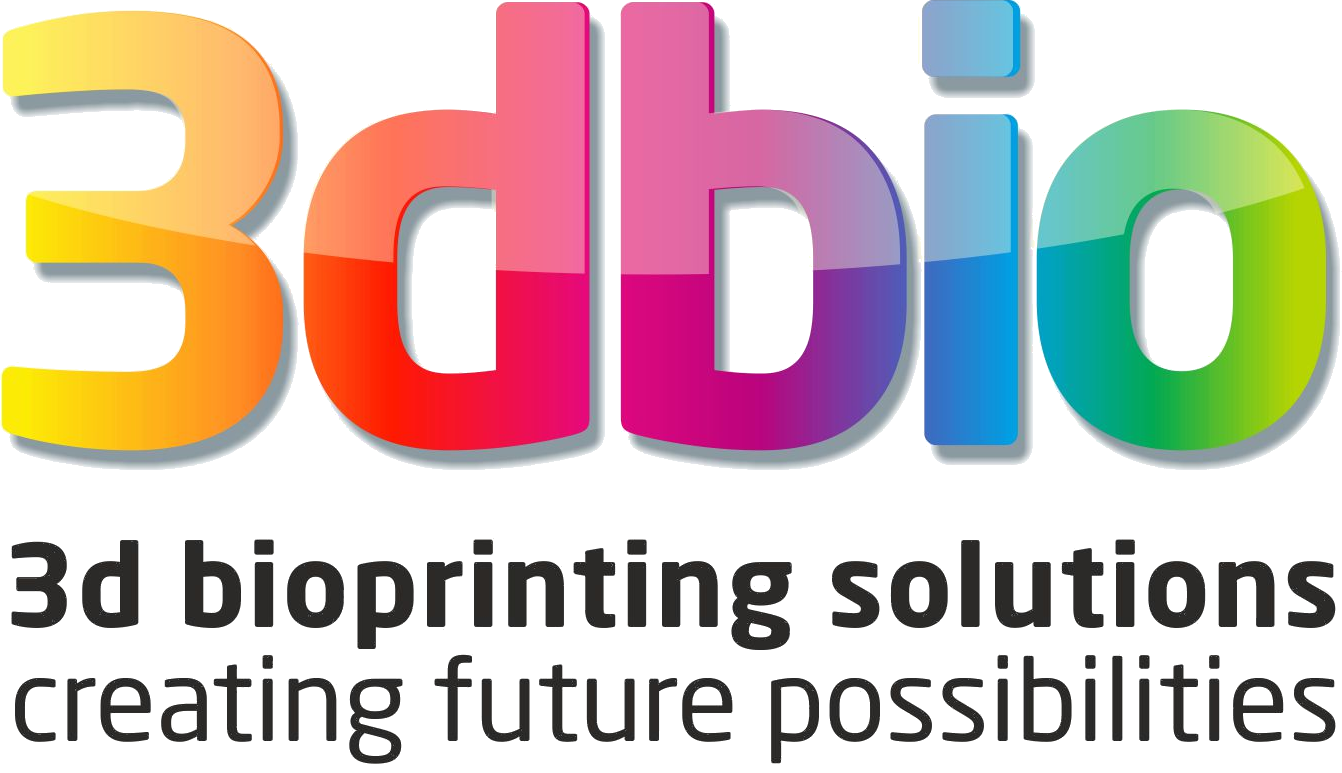
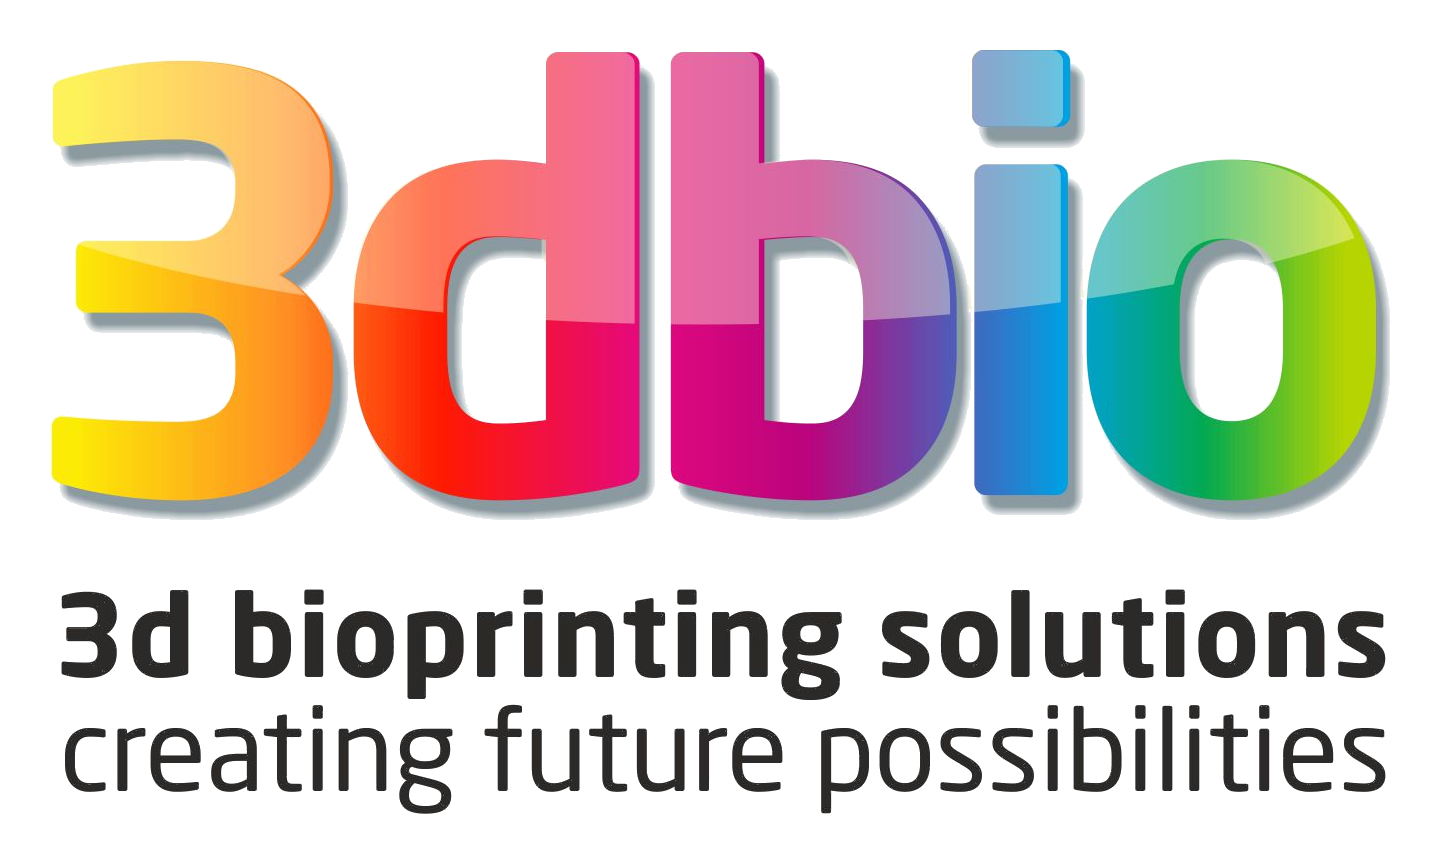
Partners redesign; new one added

diff --git a/main.css b/main.css
@@ -168,9 +168,6 @@ header {
     display: block;
     padding: 1rem;
 }
-.card:last-of-type {
-    border-image: none
-}
 @media (max-width: 860px) {
     .card {
         padding:.5rem
@@ -437,18 +434,18 @@ footer a{
     display: flex;
     flex-flow: column wrap;
     align-content: space-between;
-    justify-content: start;
+    justify-content: space-around;
 }
 .partners > .item {
     width: 95%;
-    padding: 1rem .5rem;
+    padding: 1rem .5rem 3rem;
 }
 .partners > .item > img {
     width: 100%;
 }
 @media (min-width: 992px) {
     .partners {
-        height: 480px;
+        height: 710px;
     }
     .partners > .item {
         width: 45%;
@@ -465,12 +462,12 @@ footer a{
 }
 @media (min-width: 1200px) {
     .partners {
-        height: 640px;
+        height: 940px;
     }
 }
 @media (min-width: 1400px) {
     .partners {
-        height: 470px;
+        height: 570px;
     }
     .partners > .item {
         width: 30%;

diff --git a/index.html b/index.html
@@ -367,7 +367,10 @@
                 <img alt="" src="img/partners/cmp.png">
             </div>
             <div class="item">
-                <img alt="" src="img/partners/3dbio.png">
+                <img alt="" src="img/partners/3dbio.png" style="padding-bottom: 0">
+            </div>
+            <div class="item">
+                <img alt="" src="img/partners/ecocup.png">
             </div>
             <div class="item">
                 <img alt="" src="img/partners/greendriver.png">
